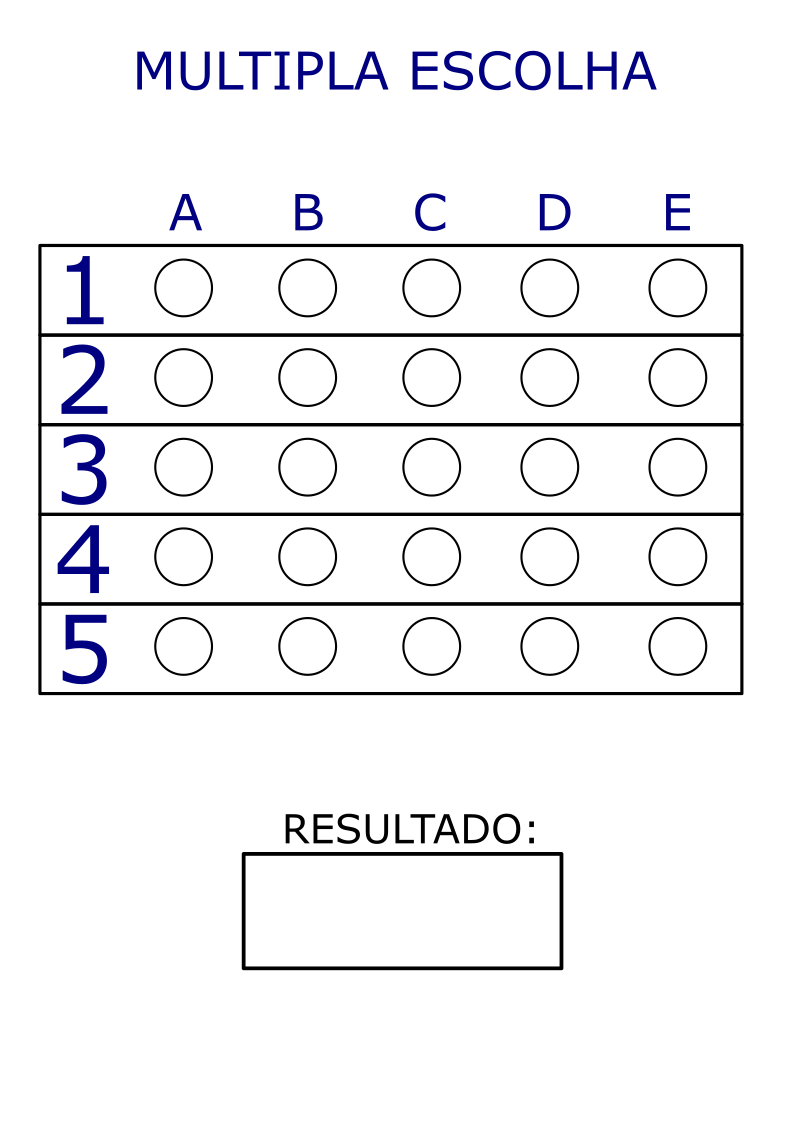
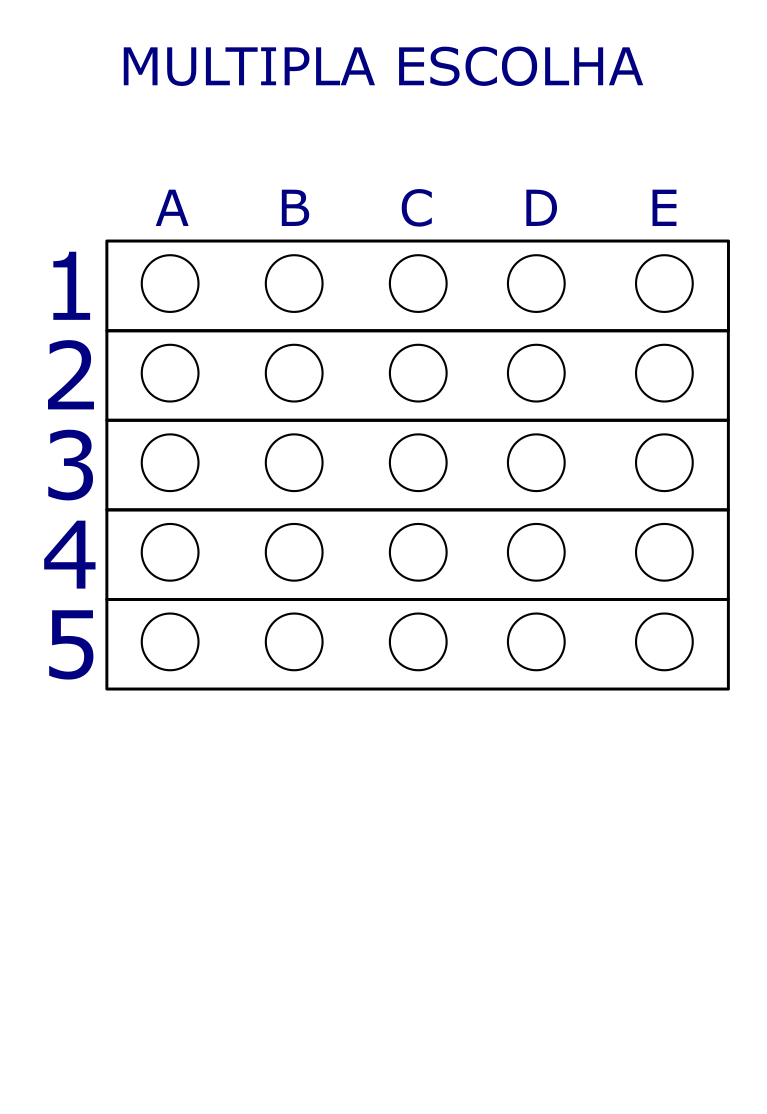
adicao da mensagem final de resultado e janela de selecao da prova

diff --git a/py.py b/py.py
@@ -4,6 +4,8 @@ import py2 #arquivo que contem funcoes
 import sys
 from pathlib import Path
 import tkinter as tk
+from tkinter import filedialog
+from tkinter import messagebox
 
 
 
@@ -40,7 +42,11 @@ root.mainloop()
 path = Path(sys.path[0])
 caminhoImagem = str(path.absolute()) + '//imagens//'
 
-img = cv.imread(caminhoImagem + "Q1.1.jpeg")
+
+
+fileImage = filedialog.askopenfilename(initialdir=caminhoImagem)
+
+img = cv.imread(fileImage)
 print(img)
 
 #definir tamanho de imagem e aplica
@@ -114,9 +120,13 @@ if biggestContour.size !=0:
     for index in range(len(myIndex)):
         if respostas[index] == myIndex[index]:
             numAcertos+=1
-        
+
+    porcentagemAcento=0
+
     if numAcertos > 0:
         porcentagemAcerto = (numAcertos * 100) / questoes  
+
+   
 
 ## adiciona texto a imagem
 imagemtexto = img.copy()
@@ -132,5 +142,8 @@ imgStacked = py2.empilharImagens(imgArray, 0.5)
 
 #mostra janela com a imagem original
 cv.imshow('Imagens', imgStacked)
+
+#exibe o resultado
+messagebox.showinfo(title="NOTA", message=str(porcentagemAcerto)+"%")
 
 cv.waitKey(0)
